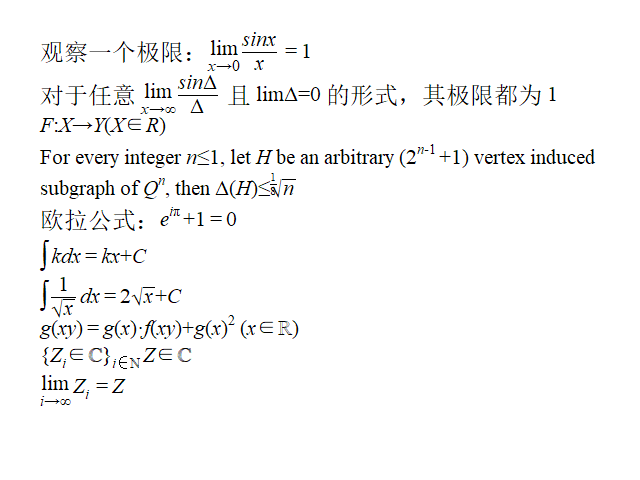
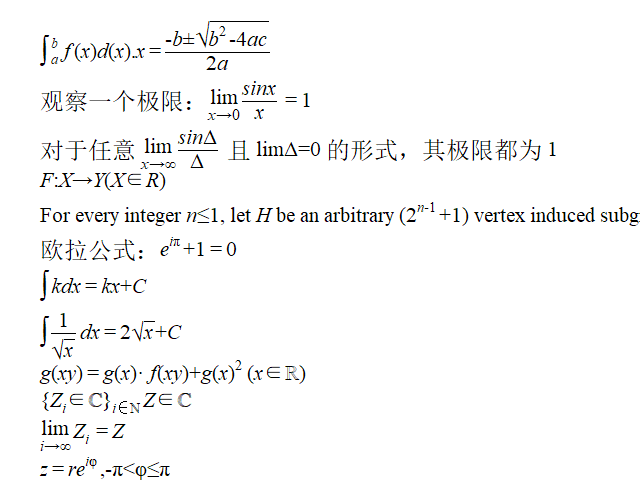
Fixed some bugs

diff --git a/easytex.cpp b/easytex.cpp
@@ -183,7 +183,7 @@ int TexRender::RenderingTex(const TexString &TeXString, size_t X, size_t Y, IMAG
 	TexFont OldFont;
 	TexFont ChineseFont(TextHeight, TextColor, this->ChineseFont);
 	TexFont EnglishFont(TextHeight, TextColor, this->EnglishFont);
-	TexFont MathFont(TextHeight, TextColor, TEXT("Times New Roman"));
+	TexFont MathFont(TextHeight, TextColor, this->EnglishFont);
 
 	MathFont.Font.lfItalic = true;
 
@@ -277,7 +277,7 @@ int TexRender::RenderingTex(const TexString &TeXString, size_t X, size_t Y, IMAG
 
 				TextHeight = TextHeightBackup;
 
-				LineTop = min(LineTop, -TextHeight * 0.2);
+				LineTop = min(LineTop, -TextHeight * 0.3);
 
 				continue;
 			}
@@ -347,14 +347,16 @@ int TexRender::RenderingTex(const TexString &TeXString, size_t X, size_t Y, IMAG
 					++Character;
 					TexString Denominator = FetchAgrument(Character);
 
-					int MolecularWidth	 = RenderingTex(Molecular, 0, 0, nullptr, true);
-					int DenominatorWidth = RenderingTex(Denominator, 0, 0, nullptr, true);
+					int TopTop			 = 0;
+					int BottomTop		 = 0;
+					int MolecularWidth	 = RenderingTex(Molecular, 0, 0, nullptr, true, &TopTop);
+					int DenominatorWidth = RenderingTex(Denominator, 0, 0, nullptr, true, &BottomTop);
 					int Width			 = max(MolecularWidth, DenominatorWidth);
 
 					RenderingTex(Molecular, X + (Width / 2 - MolecularWidth / 2), Y - TextHeight / 2, TargetDevice,
 								 MurseOnly);
-					RenderingTex(Denominator, X + (Width / 2 - DenominatorWidth / 2), Y + TextHeight / 2, TargetDevice,
-								 MurseOnly);
+					RenderingTex(Denominator, X + (Width / 2 - DenominatorWidth / 2), Y + TextHeight / 2 - BottomTop,
+								 TargetDevice, MurseOnly);
 
 					if (!MurseOnly)
 					{
@@ -364,7 +366,8 @@ int TexRender::RenderingTex(const TexString &TeXString, size_t X, size_t Y, IMAG
 
 					X += Width + 5;
 
-					LineTop = min(LineTop, -TextHeight / 2);
+					LineTop	   = min(LineTop, -TextHeight * 0.75 + TopTop);
+					LineHeight = max(LineHeight, TextHeight - BottomTop);
 
 					continue;
 				}
@@ -432,8 +435,8 @@ int TexRender::RenderingTex(const TexString &TeXString, size_t X, size_t Y, IMAG
 
 						if (!MurseOnly)
 						{
-							TexPainter::DrawSqrt(SqrtX, Y + Top + 2, Width + textwidth(TEXT('√')) + 2,
-												 TextHeight - Top);
+							TexPainter::DrawSqrt(SqrtX, Y + Top, Width + textwidth(TEXT('√')) + 2,
+												 TextHeight - Top + 2);
 						}
 
 						LineTop = min(LineTop, -TextHeight * 0.2);
@@ -461,14 +464,16 @@ int TexRender::RenderingTex(const TexString &TeXString, size_t X, size_t Y, IMAG
 
 						if (!MurseOnly)
 						{
-							TexPainter::DrawSqrt(SqrtX, Y + Top + 2, Width + textwidth(TEXT('√')) + 2,
-												 TextHeight - Top);
+							TexPainter::DrawSqrt(SqrtX, Y + Top, Width + textwidth(TEXT('√')) + 2,
+												 TextHeight - Top + 2);
 						}
 
 						LineTop = min(LineTop, -TextHeight * 0.2);
 
 						X += Width + 2;
 					}
+
+					LineTop = min(LineTop, -6);
 				}
 				if (Function == TEXT("sum"))
 				{
@@ -762,6 +767,10 @@ int TexRender::RenderingTex(const TexString &TeXString, size_t X, size_t Y, IMAG
 				{
 					TEX_OUT_GREEK('∞');
 				}
+				if (Function == TEXT("pm"))
+				{
+					TEX_OUT_GREEK('±');
+				}
 				if (Function == TEXT("int"))
 				{
 					TexFont OldFont;
@@ -908,6 +917,14 @@ int TexRender::RenderingTex(const TexString &TeXString, size_t X, size_t Y, IMAG
 			}
 			else
 			{
+				if (this->EnglishFont == TEXT("Times New Roman") && *Character == TEXT('f'))
+				{
+					Outtext(X + 6, Y, *Character, MurseOnly);
+
+					X += textwidth(*Character) + WordSpacing + 7;
+
+					continue;
+				}
 				if (InPrint)
 				{
 					X += 3;
@@ -932,9 +949,18 @@ int TexRender::RenderingTex(const TexString &TeXString, size_t X, size_t Y, IMAG
 		}
 		else
 		{
-			Outtext(X, Y, *Character, MurseOnly);
+			if (*Character == TEXT('='))
+			{
+				Outtext(X + 4, Y, *Character, MurseOnly);
 
-			X += textwidth(*Character) + WordSpacing;
+				X += textwidth(*Character) + WordSpacing + 8;
+			}
+			else
+			{
+				Outtext(X, Y, *Character, MurseOnly);
+
+				X += textwidth(*Character) + WordSpacing;
+			}
 		}
 
 		if (Character == TeXString.end())
@@ -972,6 +998,26 @@ TexString TexRender::FetchId(TexString::const_iterator &Iterator, const TexStrin
 }
 TexString TexRender::FetchAgrument(TexString::const_iterator &Iterator)
 {
+	while (*Iterator == TEXT(' ') || *Iterator == TEXT('\t'))
+	{
+		++Iterator;
+	}
+	if (*Iterator >= TEXT('0') && *Iterator <= TEXT('9'))
+	{
+		TexString Number;
+		for (;; ++Iterator)
+		{
+			if (!(*Iterator >= TEXT('0') && *Iterator <= TEXT('9')))
+			{
+				--Iterator;
+				return Number;
+			}
+
+			Number.push_back(*Iterator);
+		}
+
+		return Number;
+	}
 	if (*Iterator == TEXT('{'))
 	{
 		++Iterator;
